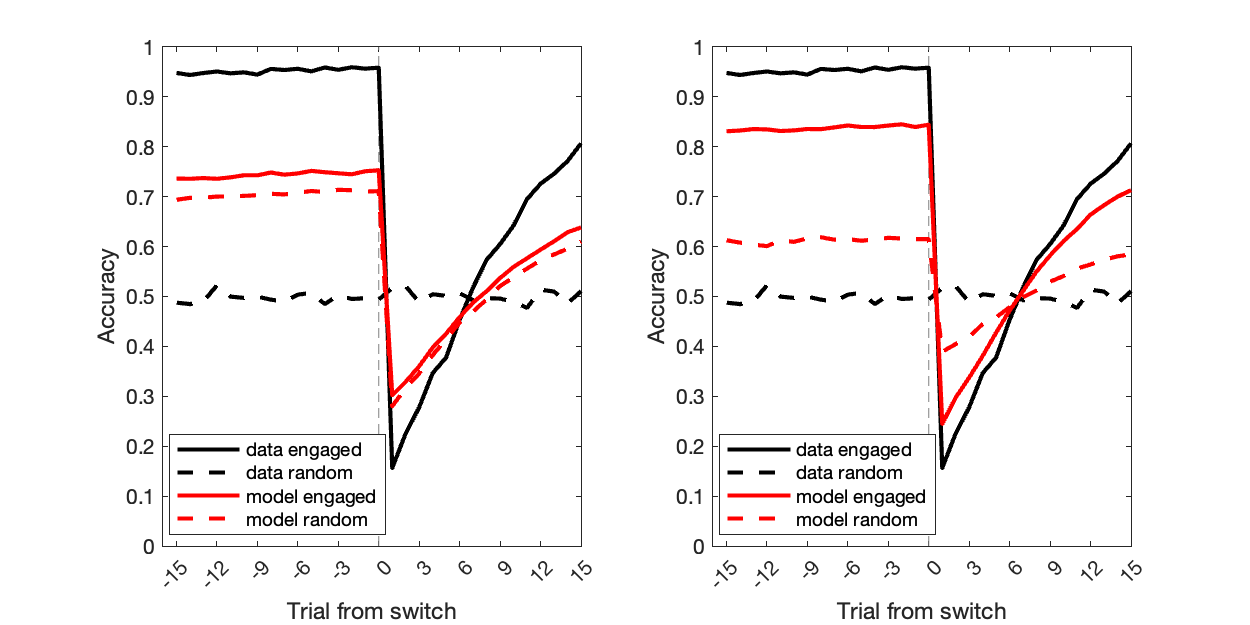
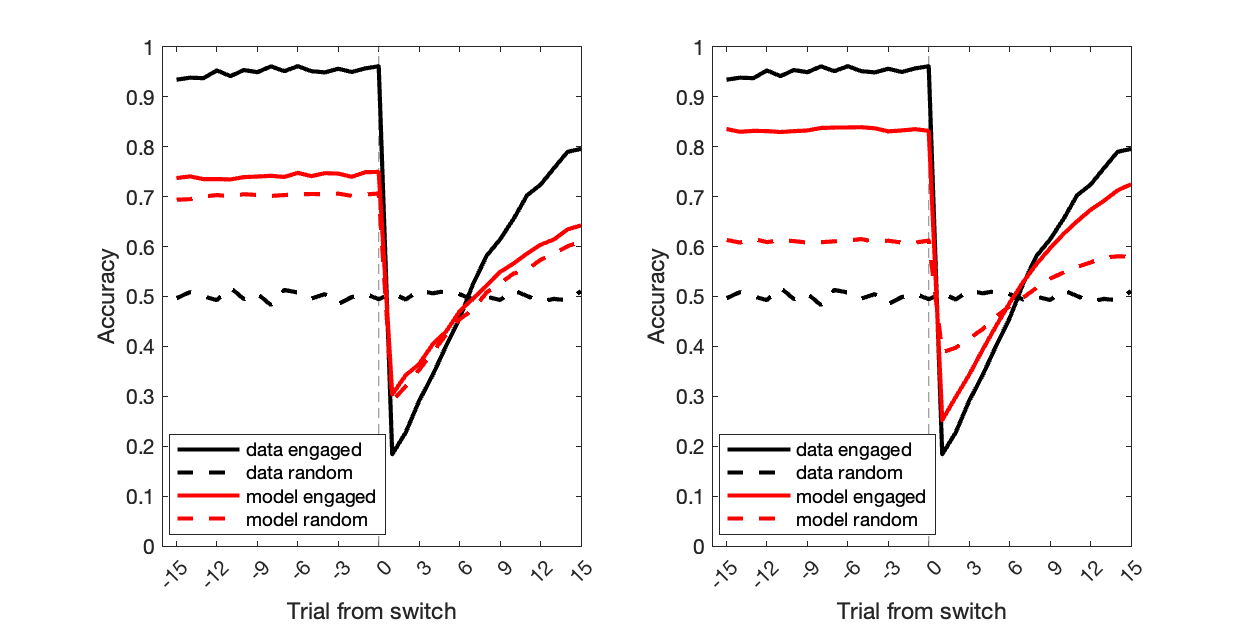
repetitions of latent st recovery all removed

diff --git a/IGT/code/recover_latent_probs.m b/IGT/code/recover_latent_probs.m
@@ -17,7 +17,6 @@ fitted_params = All_Params{strcmp(cellfun(@(x) x.name, Ms(:), 'UniformOutput', f
 
 %% Perform Iterations
 num_subject_iterations = 30; % The number of repeats per subject
-num_rec = 100; % The number of times to recover latent states for each learning trajectory
 
 engaged_state = cell(length(subjects),1); % Cell array to store the true latent state for each subject
 p_engaged = cell(length(subjects),1); % Cell array to store the recovered p(engaged) for each subject
@@ -46,7 +45,7 @@ for iteration=1:num_iterations
 
     all_data = cell(num_subject_iterations,1); % Cell array to store the simulated data for each subject iteration
     all_latent_sim = cell(num_subject_iterations,1); % Cell array to store the latent state for each subject iteration
-    all_latent_rec = zeros(num_subject_iterations*num_rec,ntrials); % Matrix to store the recovered latent state for each subject iteration and record
+    all_latent_rec = zeros(num_subject_iterations,ntrials); % Matrix to store the recovered latent state for each subject iteration and record
 
     parfor subj_it=1:num_subject_iterations
         this_data = feval(model.name, theta, payoff, ntrials); % Generate simulated data based on the dynamic model and reward structure
@@ -54,12 +53,9 @@ for iteration=1:num_iterations
         all_latent_sim{subj_it} = this_data(:,4); 
     end
 
-    parfor this_it=1:num_subject_iterations*num_rec
-        subj_it = ceil(this_it/num_rec);
-        rec = rem(this_it-1,num_rec)+1;
-
-        data = all_data{subj_it}; % Get the simulated data for the current subject iteration
-        latent_sim = all_latent_sim{subj_it}; % Get the latent state for the current subject iteration
+    parfor this_it=1:num_subject_iterations
+        data = all_data{this_it}; % Get the simulated data for the current subject iteration
+        latent_sim = all_latent_sim{this_it}; % Get the latent state for the current subject iteration
         
         this_latent_rec = feval([model.name '_latent'], theta, data); % Estimate the latent state using the dynamic model
         all_latent_rec(this_it,:) = this_latent_rec(:,1); % Store the recovered latent state
@@ -67,7 +63,7 @@ for iteration=1:num_iterations
 
     for subj_it=1:num_subject_iterations
         latent_sim = all_latent_sim{subj_it}; % Get the latent state for the current subject iteration
-        latent_rec = nanmean(all_latent_rec((subj_it-1)*num_rec+1:subj_it*num_rec,:)); % Calculate the average recovered latent state
+        latent_rec = nanmean(all_latent_rec(subj_it,:)); % Calculate the average recovered latent state
 
         subj_engaged_state = [subj_engaged_state latent_sim']; % Concatenate the true latent state for the current subject
         subj_p_engaged = [subj_p_engaged latent_rec]; % Concatenate the recovered p(engaged) for the current subject

diff --git a/RLWM/code/recover_latent_probs.m b/RLWM/code/recover_latent_probs.m
@@ -14,7 +14,6 @@ fitted_params = All_Params{strcmp(cellfun(@(x) x.name, Ms(:), 'UniformOutput', f
 
 %% Perform Iterations
 num_subject_iterations = 30; % The number of repeats per subject
-num_rec = 100; % The number of times to recover latent states for each learning trajectory
 
 engaged_state = cell(length(subjects),1); % Cell array to store the true latent state for each subject
 p_engaged = cell(length(subjects),1); % Cell array to store the recovered p(engaged) for each subject
@@ -48,7 +47,7 @@ for iteration=1:num_iterations
 
     all_data = cell(num_subject_iterations,1); % Cell array to store the simulated data for each subject iteration
     all_latent_sim = cell(num_subject_iterations,1); % Cell array to store the latent state for each subject iteration
-    all_latent_rec = zeros(num_subject_iterations*num_rec,ntrials); % Matrix to store the recovered latent state for each subject iteration and record
+    all_latent_rec = zeros(num_subject_iterations,ntrials); % Matrix to store the recovered latent state for each subject iteration and record
 
     parfor subj_it=1:num_subject_iterations
         this_data = feval(model.name, theta, K, realData); % Generate simulated data based on the dynamic model and reward structure
@@ -57,12 +56,9 @@ for iteration=1:num_iterations
         all_latent_sim{subj_it} = this_data(:,6); 
     end
 
-    parfor this_it=1:num_subject_iterations*num_rec
-        subj_it = ceil(this_it/num_rec);
-        rec = rem(this_it-1,num_rec)+1;
-
-        data = all_data{subj_it}; % Get the simulated data for the current subject iteration
-        latent_sim = all_latent_sim{subj_it}; % Get the latent state for the current subject iteration
+    parfor this_it=1:num_subject_iterations
+        data = all_data{this_it}; % Get the simulated data for the current subject iteration
+        latent_sim = all_latent_sim{this_it}; % Get the latent state for the current subject iteration
         
         this_latent_rec = feval([model.name '_latent'], theta, K, data); % Estimate the latent state using the dynamic model
         all_latent_rec(this_it,:) = this_latent_rec(:,1); % Store the recovered latent state
@@ -70,7 +66,7 @@ for iteration=1:num_iterations
 
     for subj_it=1:num_subject_iterations
         latent_sim = all_latent_sim{subj_it}; % Get the latent state for the current subject iteration
-        latent_rec = nanmean(all_latent_rec((subj_it-1)*num_rec+1:subj_it*num_rec,:)); % Calculate the average recovered latent state
+        latent_rec = nanmean(all_latent_rec(subj_it,:)); % Calculate the average recovered latent state
 
         subj_engaged_state = [subj_engaged_state latent_sim']; % Concatenate the true latent state for the current subject
         subj_p_engaged = [subj_p_engaged latent_rec]; % Concatenate the recovered p(engaged) for the current subject

diff --git a/Dynamic_Foraging/code/recover_latent_probs.m b/Dynamic_Foraging/code/recover_latent_probs.m
@@ -30,7 +30,6 @@ end
 
 %% Perform Iterations
 num_subject_iterations = 30; % The number of repeats per subject
-num_rec = 100; % The number of times to recover latent states for each learning trajectory
 
 engaged_state = cell(length(subjects),1); % Cell array to store the true latent state for each subject
 p_engaged = cell(length(subjects),1); % Cell array to store the recovered p(engaged) for each subject
@@ -60,7 +59,7 @@ for iteration=1:num_iterations
 
     all_data = cell(num_subject_iterations,1); % Cell array to store the simulated data for each subject iteration
     all_latent_sim = cell(num_subject_iterations,1); % Cell array to store the latent state for each subject iteration
-    all_latent_rec = zeros(num_subject_iterations*num_rec,ntrials); % Matrix to store the recovered latent state for each subject iteration and record
+    all_latent_rec = zeros(num_subject_iterations,ntrials); % Matrix to store the recovered latent state for each subject iteration and record
 
     parfor subj_it=1:num_subject_iterations
         this_data = feval(model.name, theta, rewardStructs{iteration}); % Generate simulated data based on the dynamic model and reward structure
@@ -69,12 +68,9 @@ for iteration=1:num_iterations
         all_latent_sim{subj_it} = cat(2, latent_sim_cell{:})'; % Concatenate the "latent_att" values into a matrix
     end
 
-    parfor this_it=1:num_subject_iterations*num_rec
-        subj_it = ceil(this_it/num_rec);
-        rec = rem(this_it-1,num_rec)+1;
-
-        data = all_data{subj_it}; % Get the simulated data for the current subject iteration
-        latent_sim = all_latent_sim{subj_it}; % Get the latent state for the current subject iteration
+    parfor this_it=1:num_subject_iterations
+        data = all_data{this_it}; % Get the simulated data for the current subject iteration
+        latent_sim = all_latent_sim{this_it}; % Get the latent state for the current subject iteration
         
         this_latent_rec = feval([model.name '_latent'], theta, data); % Estimate the latent state using the dynamic model
         all_latent_rec(this_it,:) = this_latent_rec(:,1); % Store the recovered latent state
@@ -82,7 +78,7 @@ for iteration=1:num_iterations
 
     for subj_it=1:num_subject_iterations
         latent_sim = all_latent_sim{subj_it}; % Get the latent state for the current subject iteration
-        latent_rec = nanmean(all_latent_rec((subj_it-1)*num_rec+1:subj_it*num_rec,:)); % Calculate the average recovered latent state
+        latent_rec = nanmean(all_latent_rec(subj_it,:)); % Calculate the average recovered latent state
 
         subj_engaged_state = [subj_engaged_state latent_sim']; % Concatenate the true latent state for the current subject
         subj_p_engaged = [subj_p_engaged latent_rec]; % Concatenate the recovered p(engaged) for the current subject

diff --git a/2-step/code/recover_latent_probs.m b/2-step/code/recover_latent_probs.m
@@ -40,7 +40,6 @@ for it = 1:n_iters
     ntrials = size(latent_sim,1);
 
     n_subj_its = 100;
-    n_recs = 100;
 
     subj_p_engaged_0 = zeros(n_subj_its,ntrials);
     subj_p_engaged_1 = zeros(n_subj_its,ntrials);
@@ -49,7 +48,7 @@ for it = 1:n_iters
 
     all_data = cell(n_subj_its,1);
     all_latent_sim = cell(n_subj_its,1);
-    all_latent_rec = zeros(n_subj_its*n_recs,ntrials);
+    all_latent_rec = zeros(n_subj_its,ntrials);
 
     % Parallelize simulation for different iterations
     parfor subj_it = 1:n_subj_its
@@ -60,12 +59,9 @@ for it = 1:n_iters
     end
         
     % Parallelize recovery process for different iterations and recoveries
-    parfor this_it = 1:n_subj_its*n_recs
-        subj_it = ceil(this_it/n_recs);
-        rec = rem(this_it-1,n_recs)+1;
-
-        this_data = all_data{subj_it};
-        latent_sim = all_latent_sim{subj_it};
+    parfor this_it = 1:n_subj_its
+        this_data = all_data{this_it};
+        latent_sim = all_latent_sim{this_it};
         
         this_latent_rec = feval([M.name '_latent'], theta, this_data);
         all_latent_rec(this_it,:) = [nan(9,1); this_latent_rec(:,1)];
@@ -74,7 +70,7 @@ for it = 1:n_iters
     % Aggregate recovered attention trajectories and latent states for each iteration
     for subj_it = 1:n_subj_its
         latent_sim = all_latent_sim{subj_it};
-        latent_rec = nanmean(all_latent_rec((subj_it-1)*n_recs+1:subj_it*n_recs,:));
+        latent_rec = nanmean(all_latent_rec(subj_it,:));
 
         subj_latent_st = [subj_latent_st latent_sim'];
         subj_p_engaged = [subj_p_engaged latent_rec];

diff --git a/Probabilistic_Reversal/code/recover_latent_probs.m b/Probabilistic_Reversal/code/recover_latent_probs.m
@@ -63,7 +63,6 @@ p_engaged = cell(n_iters, 1);
 latent_st = cell(n_iters, 1);
 
 n_subj_its = 100;  % Number of subject iterations
-n_recs = 100;  % Number of recordings
 
 for it = 1:n_iters
     this_iter = this_iter + 1;
@@ -80,7 +79,7 @@ for it = 1:n_iters
     
     all_data = cell(n_subj_its, 1);
     all_latent_sim = cell(n_subj_its, 1);
-    all_latent_rec = zeros(n_subj_its * n_recs, ntrials);
+    all_latent_rec = zeros(n_subj_its, ntrials);
 
     % Generate data and latent states for each subject iteration
     parfor subj_it = 1:n_subj_its
@@ -90,17 +89,15 @@ for it = 1:n_iters
         all_latent_sim{subj_it} = latent_sim;
     end
         
-    parfor this_it = 1:n_subj_its * n_recs
-        subj_it = ceil(this_it / n_recs);
-        rec = rem(this_it - 1, n_recs) + 1;
-        this_data = all_data{subj_it};
+    parfor this_it = 1:n_subj_its
+        this_data = all_data{this_it};
         this_latent = feval([Ms{model_ind}.name '_latent'], theta, this_data);
         all_latent_rec(this_it, :) = this_latent(:, 1);
     end
 
     for subj_it = 1:n_subj_its
         latent_sim = all_latent_sim{subj_it};
-        latent_rec = nanmean(all_latent_rec((subj_it - 1) * n_recs + 1:subj_it * n_recs, :));
+        latent_rec = nanmean(all_latent_rec(subj_it, :));
 
         subj_latent_st = [subj_latent_st latent_sim'];
         subj_p_engaged = [subj_p_engaged latent_rec];

diff --git a/Probabilistic_Reversal/code/validate_models.m b/Probabilistic_Reversal/code/validate_models.m
@@ -147,12 +147,8 @@ for this_ID = 1:num_subjects
         static_choice_prob(this_ID,:) = static_choice_prob(this_ID,:) + latent(:,2)';
 
         % Simulate data using dynamic model
-        latent_st_traj = zeros(1,500);
-        for i = 1:20
-            latent = dynamic_model_latent(All_Params{2}(this_ID,:), this_data);
-            latent_st_traj = latent_st_traj + latent(:,1);
-        end
-        latent_st_traj = latent_st_traj / 20;
+        latent = dynamic_model_latent(All_Params{2}(this_ID,:), this_data);
+        latent_st_traj = latent(:,1);
         data_temp = dynamic_model(All_Params{2}(this_ID,:), latent_st_traj);
         latent = [data_temp(:,1) data_temp(:,end)];
         this_dynamic_sim_engaged(this_latent==1,:) = this_dynamic_sim_engaged(this_latent==1,:) + data_temp(this_latent==1,:);
